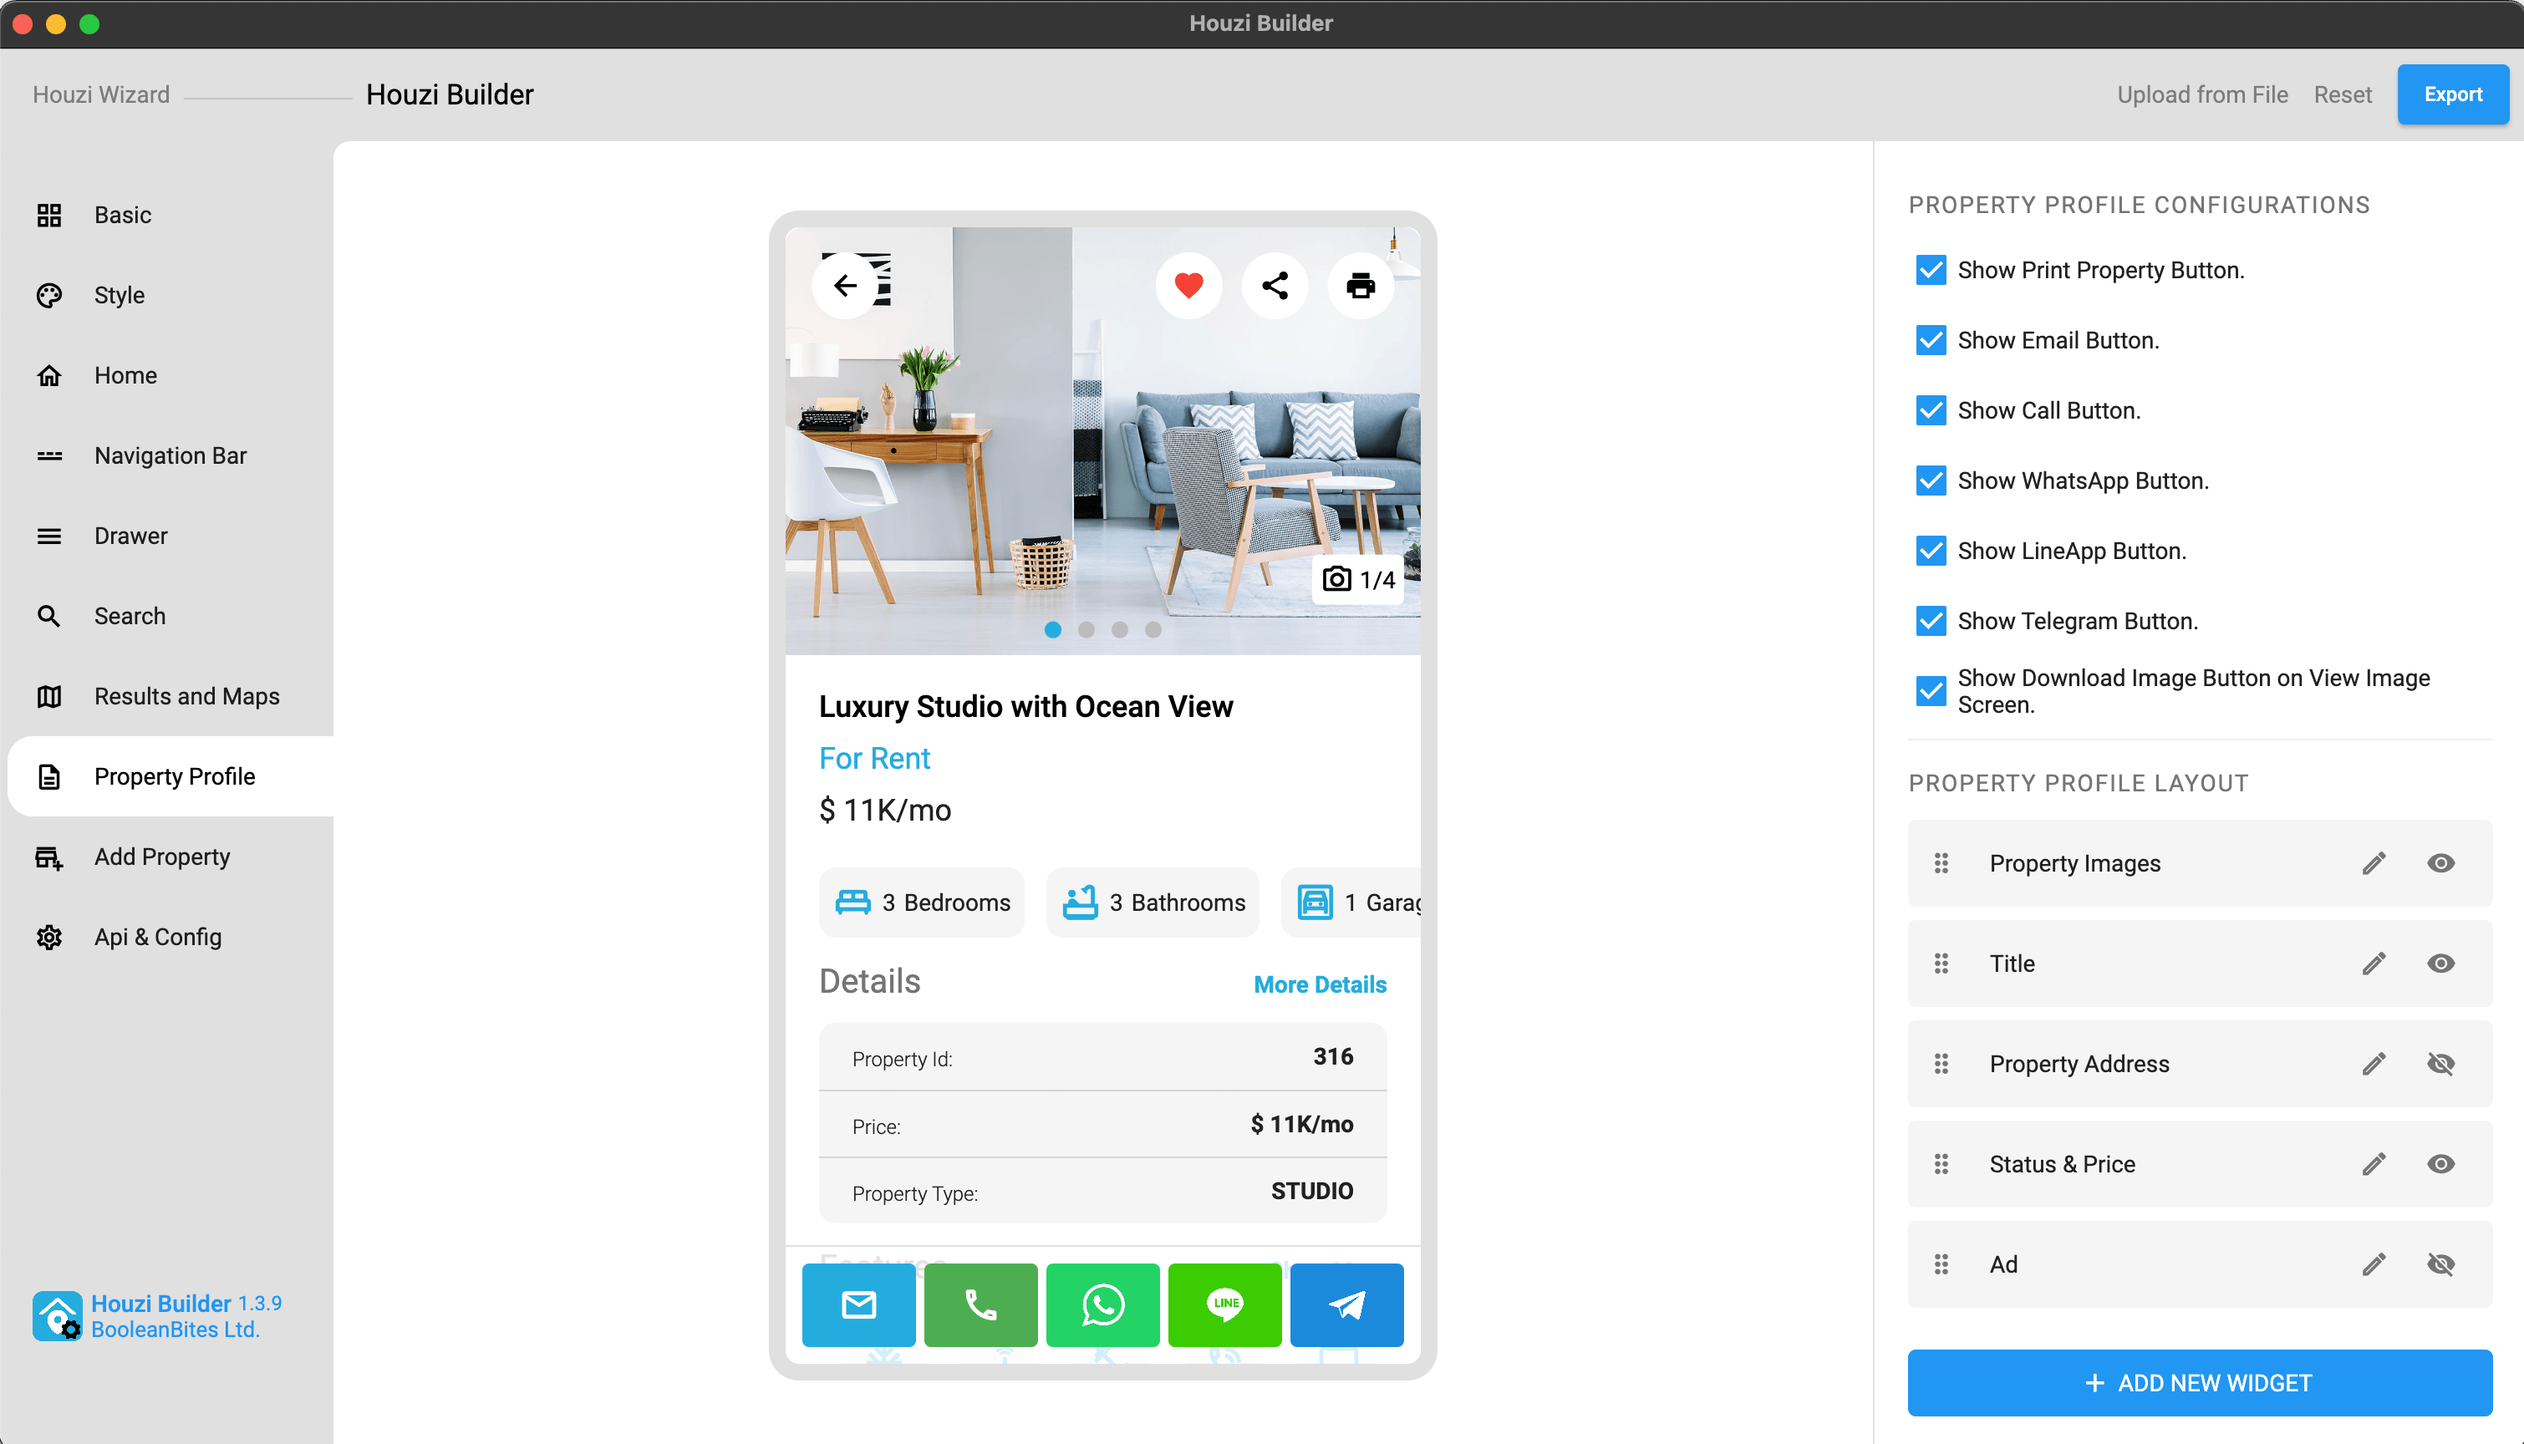
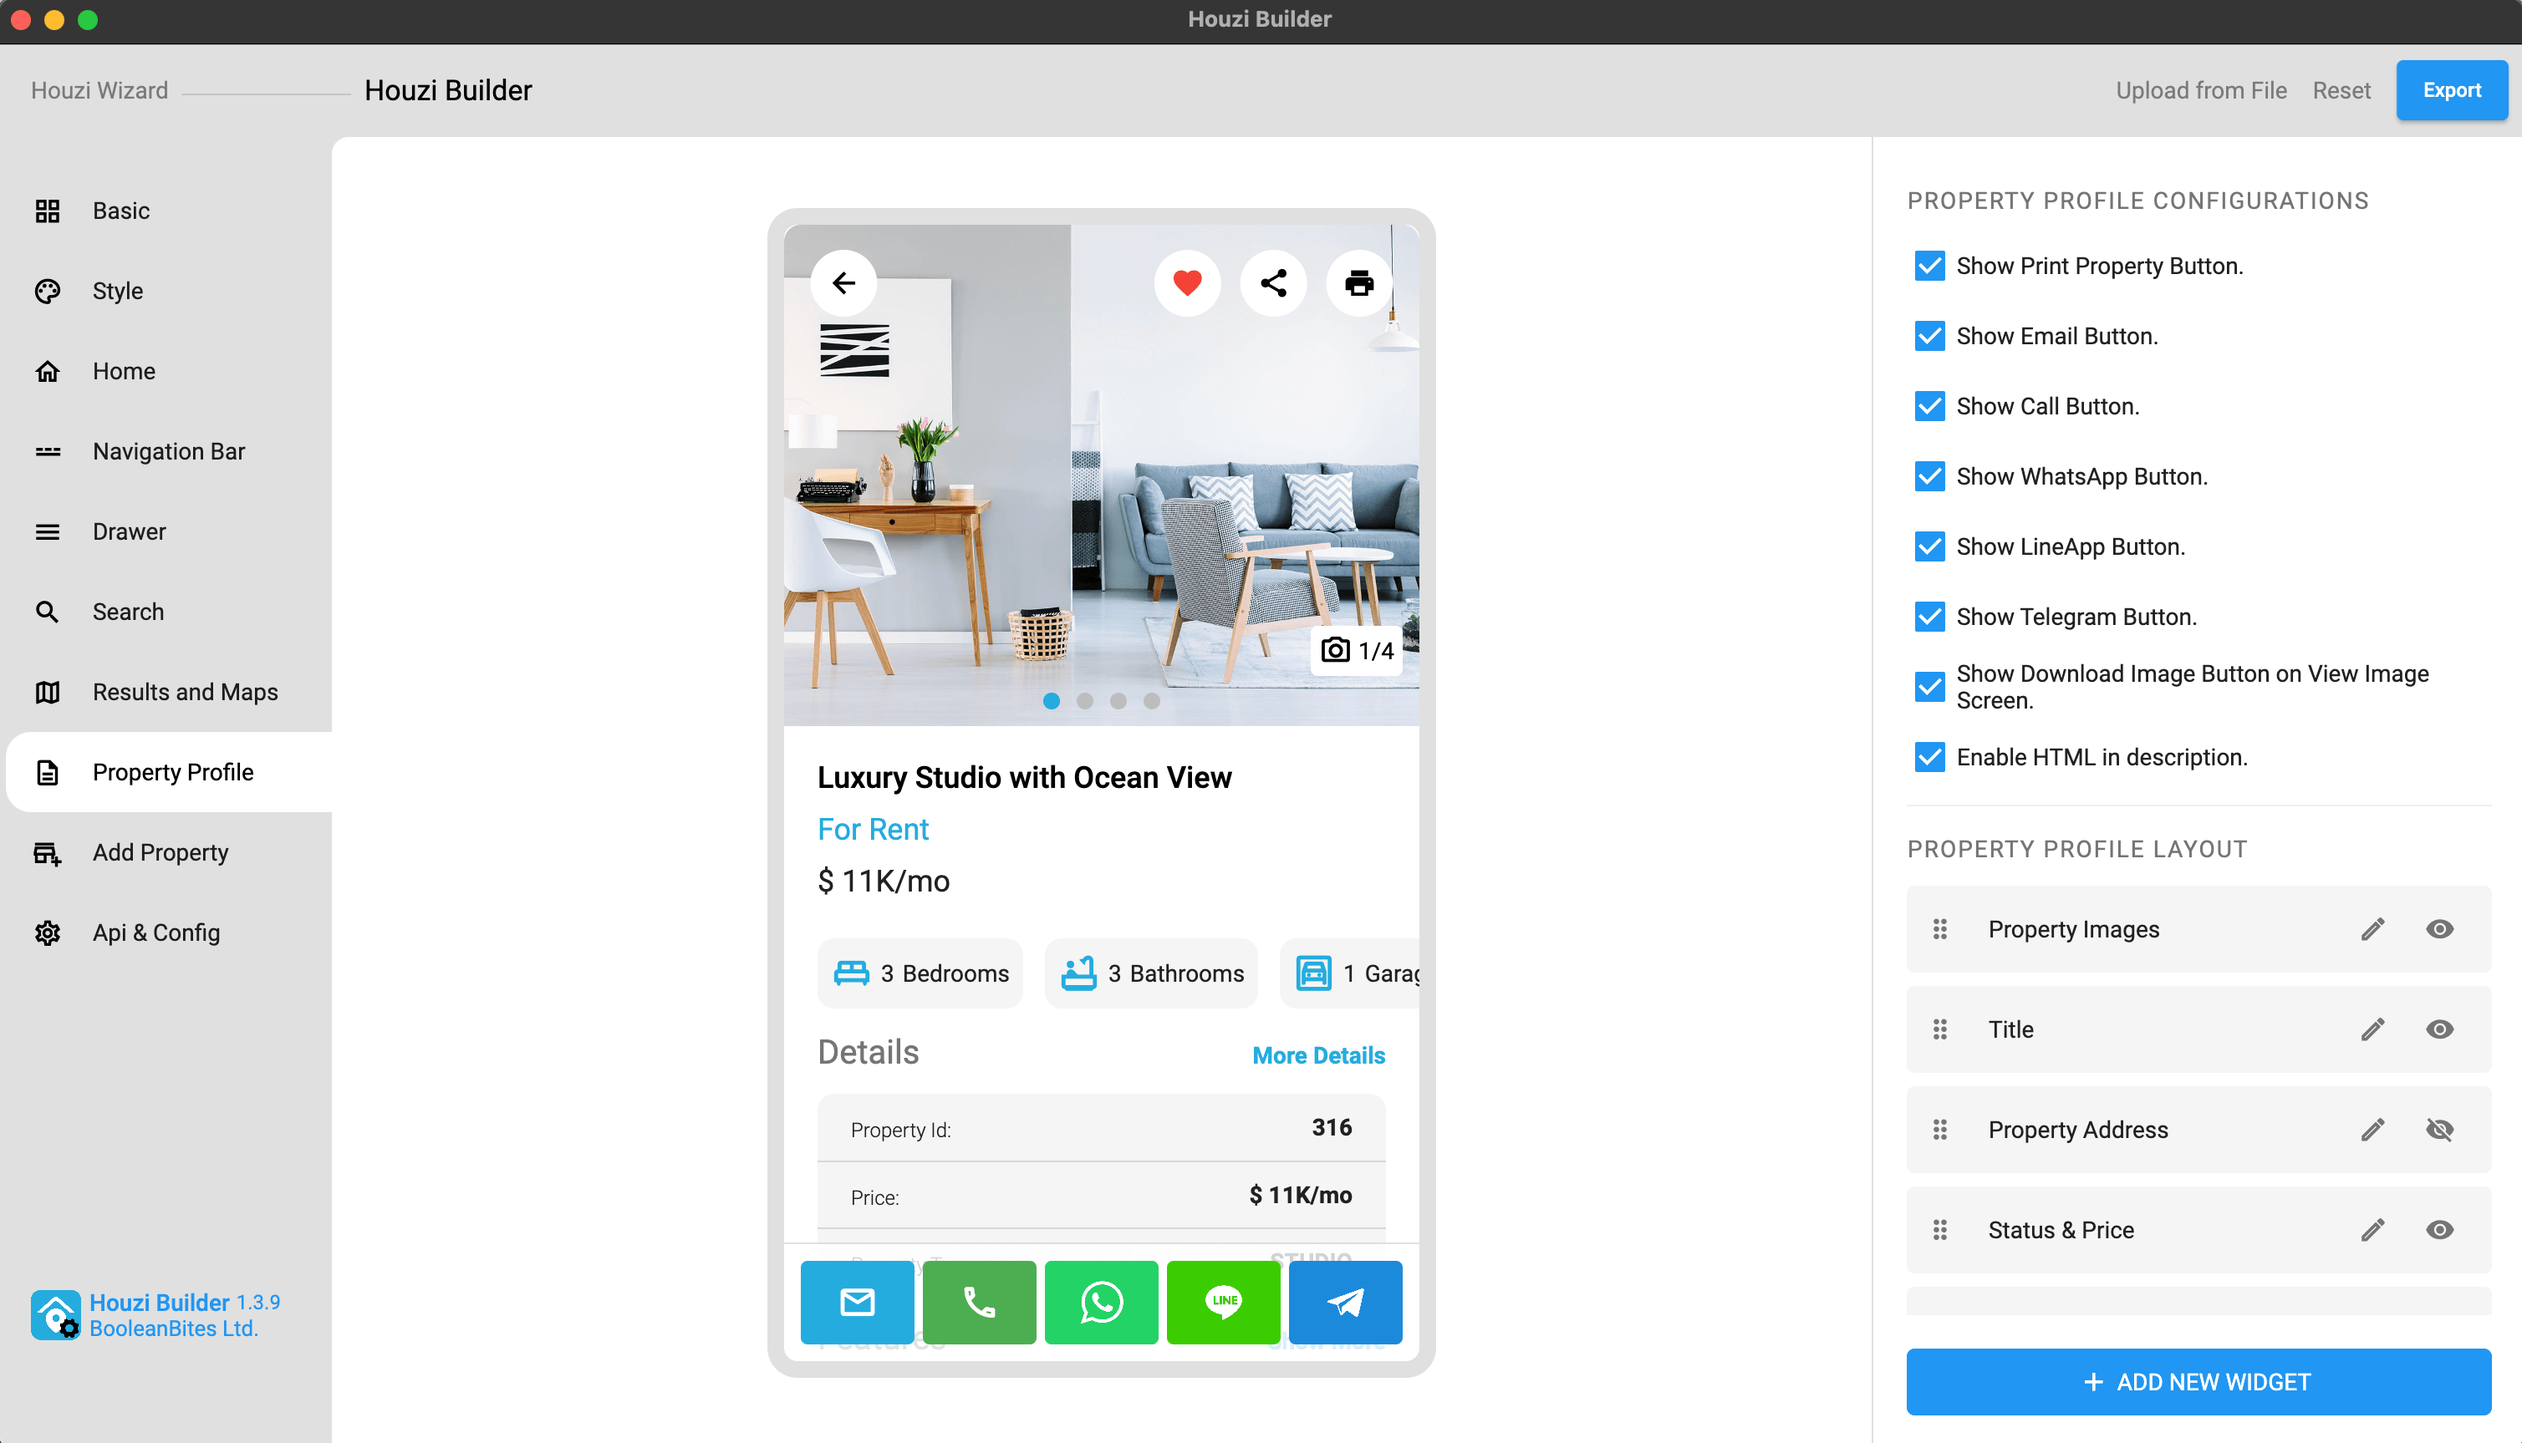
Updated Property profile doc.

diff --git a/_posts/2024-02-20-1.3.9.md b/_posts/2024-02-20-1.3.9.md
@@ -18,6 +18,7 @@ type: major
 - [New] Added new hooks for setting the minimum characters for Login Password and customizing the Agent Profile Configurations.
 - [New] Provided support for the user to add custom options for the string_picker in search section.
 - [New] Provided same Signup phone number field as in the Login with the Phone screen.
+- [New] Added support for Enabling the HTML in the property description.
 
 - [Improved] Improved Drawer menu.
 - [Improved] Improved Search Results.
@@ -34,6 +35,7 @@ type: major
 - [New] Added new Contact button for Line app.
 - [New] Added new Contact button for Telegram app.
 - [New] Added new layout design for Property Profile Bottom Action Bar.
+- [New] Added support for Enabling the HTML in the property description.
 
 - [Improved] Updated the Style section.
 - [Improved] Added new customization support in the Search section.

diff --git a/_docs/houzi-builder/11_customize-property-profile.md b/_docs/houzi-builder/11_customize-property-profile.md
@@ -40,6 +40,8 @@ Let's dive into the details of each section.
 
 - You can **show** or **hide** *Download Image Button*, on the top-right side of view image screen, just by *Check Marking or Un-Marking* the **Show Download Image Button on View Image Screen** checkbox field.  
 
+- You can **enable** or **disable** the *HTML*, in the description widget, just by *Check Marking or Un-Marking* the **Enable HTML in description** checkbox field. 
+
 ---
 
 # Add New Section
